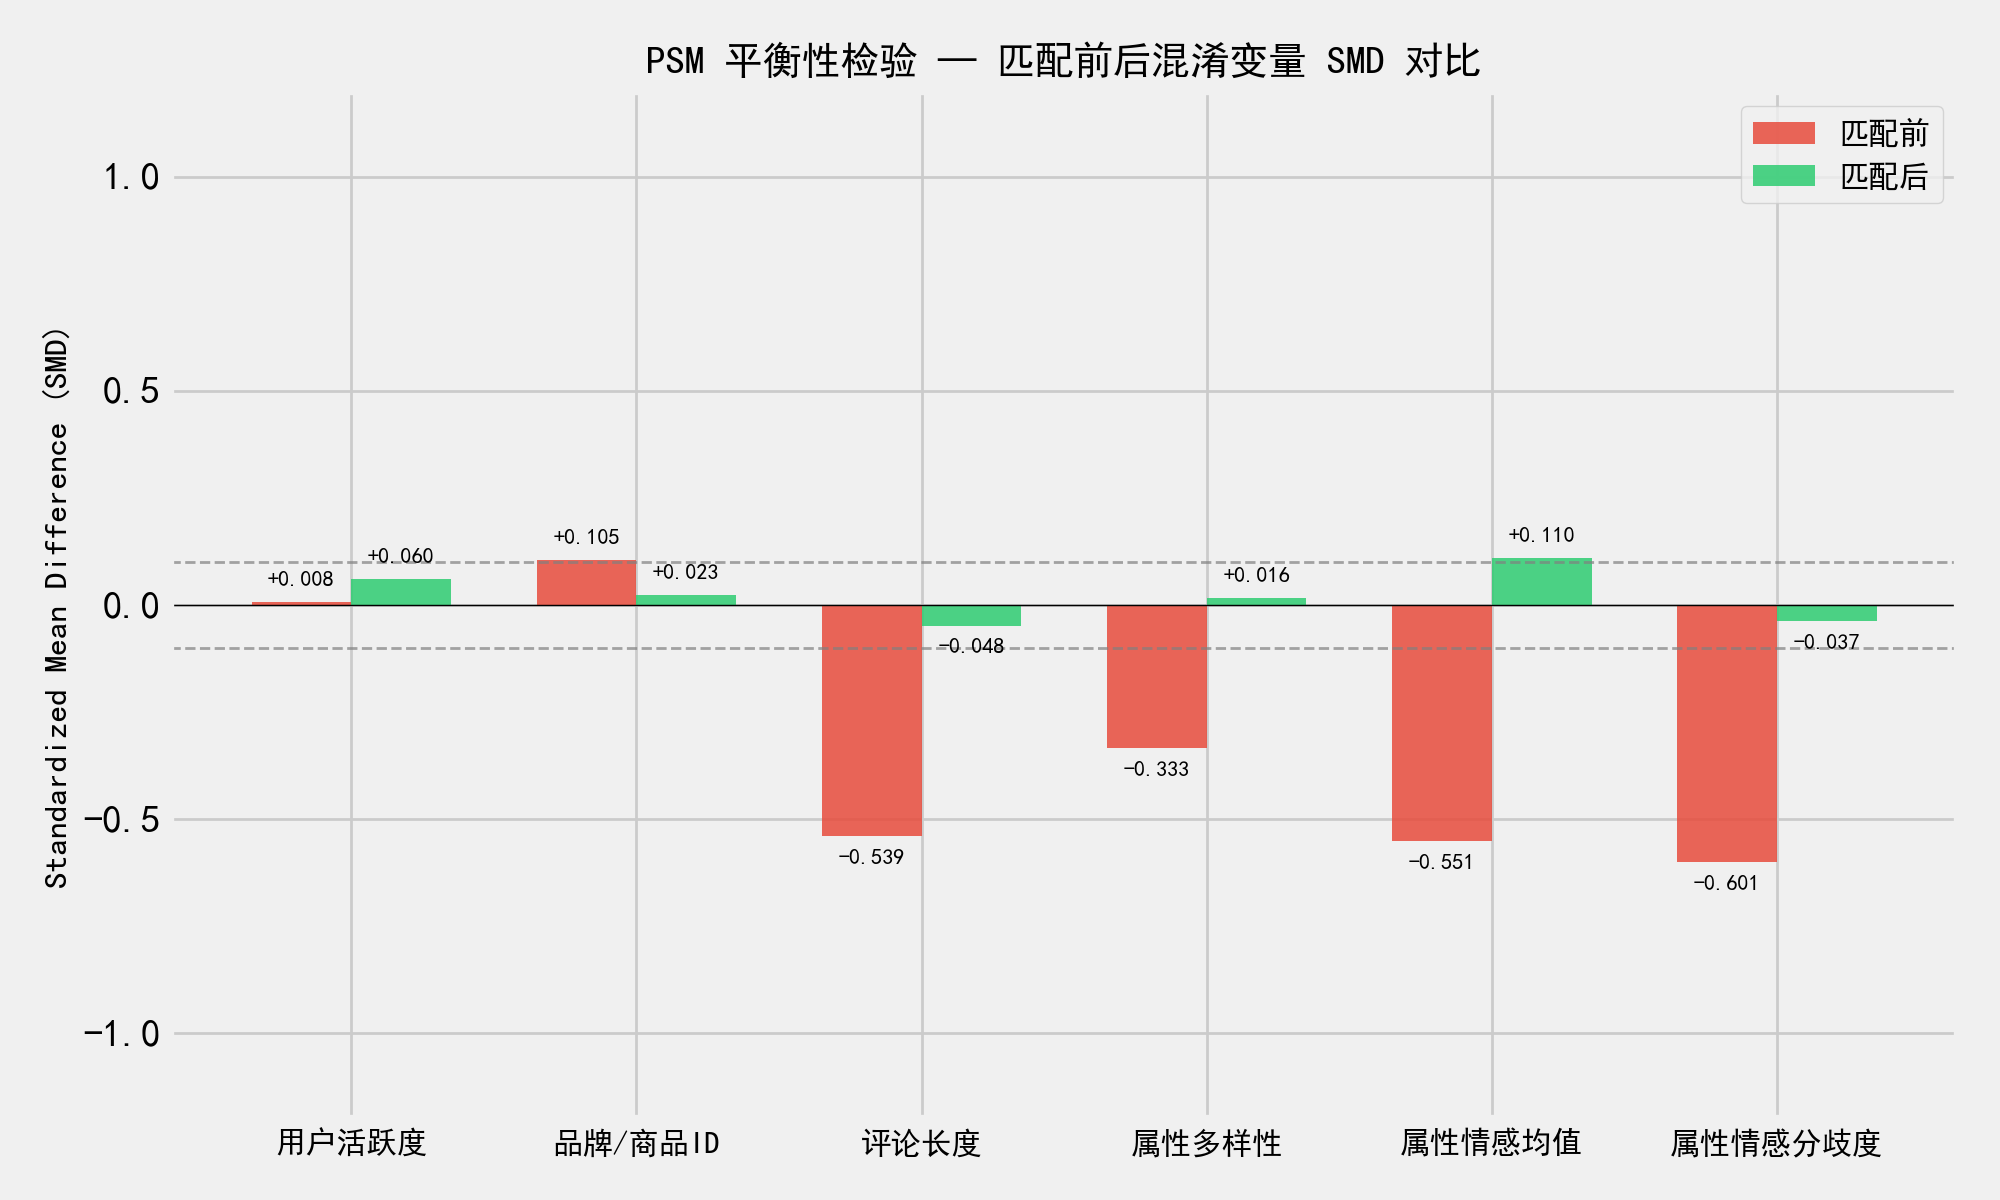
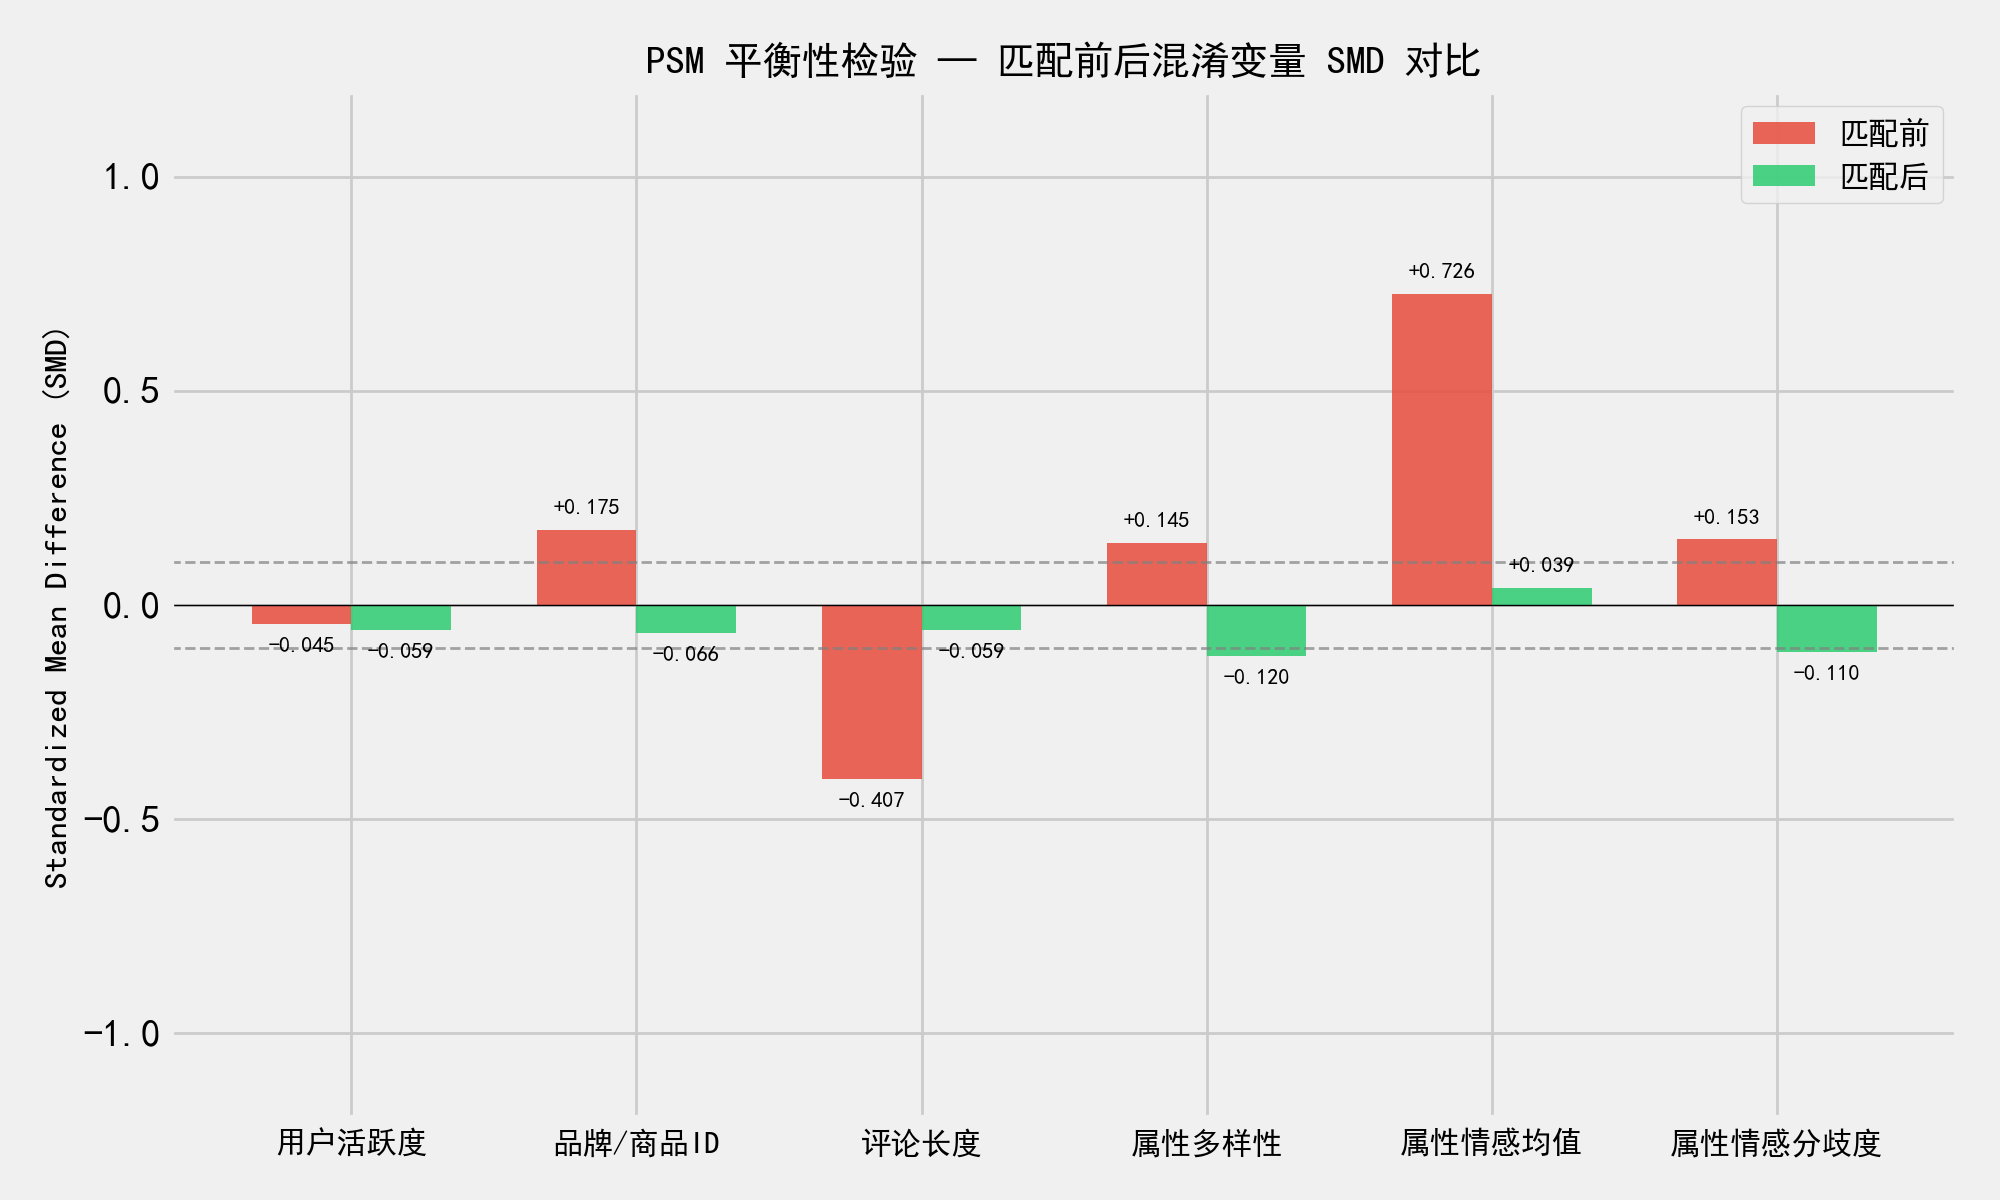
fix: 修复PSM+因果森林模块三个bug并更新运行结果
1. 修复降采样后匹配率计算分母错误（使用降采样前n_treat）
2. 修复aspect_lookup字典重复键覆盖问题（新增content复合键）
3. 修复空组检查使用降采样前计数的问题
4. 同步更新causal_report.txt和psm_balance.png运行结果

diff --git a/src/causal_inference.py b/src/causal_inference.py
@@ -274,6 +274,7 @@ def main():
     aspect_path = DIR_PROCESSED / "aspect_sentiment.jsonl"
     has_aspect = False
     aspect_lookup = {}
+    aspect_use_content_key = False  # JSONL 是否包含 content 字段作为复合键
     if aspect_path.exists():
         try:
             import jsonlines
@@ -284,9 +285,17 @@ def main():
                     aspects_list.append(obj)
             if aspects_list:
                 has_aspect = True
-                # 构建 (user_id, item_id) -> aspect_sentiment dict 查找表
+                _has_content = "content" in aspects_list[0]
+                aspect_use_content_key = _has_content
                 for rec in aspects_list:
-                    key = (str(rec.get('user_id', '')), str(rec.get('item_id', '')))
+                    if _has_content:
+                        key = (
+                            str(rec.get('user_id', '')),
+                            str(rec.get('item_id', '')),
+                            str(rec.get('content', '')),
+                        )
+                    else:
+                        key = (str(rec.get('user_id', '')), str(rec.get('item_id', '')))
                     aspect_lookup[key] = rec.get('aspect_sentiment', {})
                 report_lines.append(
                     f"  aspect_sentiment.jsonl 加载成功 ({len(aspects_list)} 条, {len(aspect_lookup)} 个唯一键)"
@@ -312,8 +321,8 @@ def main():
         0.6 * df["sentiment"] + 0.4 * df["implicit_score"]
     )
     df["treatment"] = (df["overall_sentiment"] > 0.5).astype(int)
-    n_treat = df["treatment"].sum()
-    n_control = len(df) - n_treat
+    n_treat = int(df["treatment"].sum())
+    n_control = int(len(df) - n_treat)
     report_lines.append(
         f"  Treatment (overall_sentiment>0.5): 处理组={n_treat}, 对照组={n_control}"
     )
@@ -331,8 +340,10 @@ def main():
         downsampled_treat = rng.choice(treat_idx, size=max_treat, replace=False)
         keep_idx = np.concatenate([downsampled_treat, control_idx])
         df = df.loc[keep_idx].reset_index(drop=True)
-        n_treat_after = df['treatment'].sum()
-        n_control_after = len(df) - n_treat_after
+        n_treat_after = int(df['treatment'].sum())
+        n_control_after = int(len(df) - n_treat_after)
+        n_treat = n_treat_after
+        n_control = n_control_after
         report_lines.append(
             f"  降采样后: 处理组={n_treat_after}, 对照组={n_control_after} "
             f"(比例={n_treat_after/max(n_control_after,1):.1f}:1)"
@@ -372,7 +383,10 @@ def main():
         aspect_means = []
         aspect_stds = []
         for _, row in df.iterrows():
-            key = (str(row['user_id']), str(row['product_id']))
+            if aspect_use_content_key:
+                key = (str(row['user_id']), str(row['product_id']), str(row['content']))
+            else:
+                key = (str(row['user_id']), str(row['product_id']))
             asp_dict = aspect_lookup.get(key, {})
             if asp_dict:
                 values = list(asp_dict.values())

diff --git a/src/2_preprocess_v2.py b/src/2_preprocess_v2.py
@@ -405,6 +405,7 @@ def run_aspect_sentiment(input_csv_path=None):
         jsonl_records.append({
             "user_id": row['user_id'],
             "item_id": row['item_id'],
+            "content": row.get('content', row.get(text_col, '')),
             "aspect_sentiment": aspect_sent
         })
         vector_records.append({
